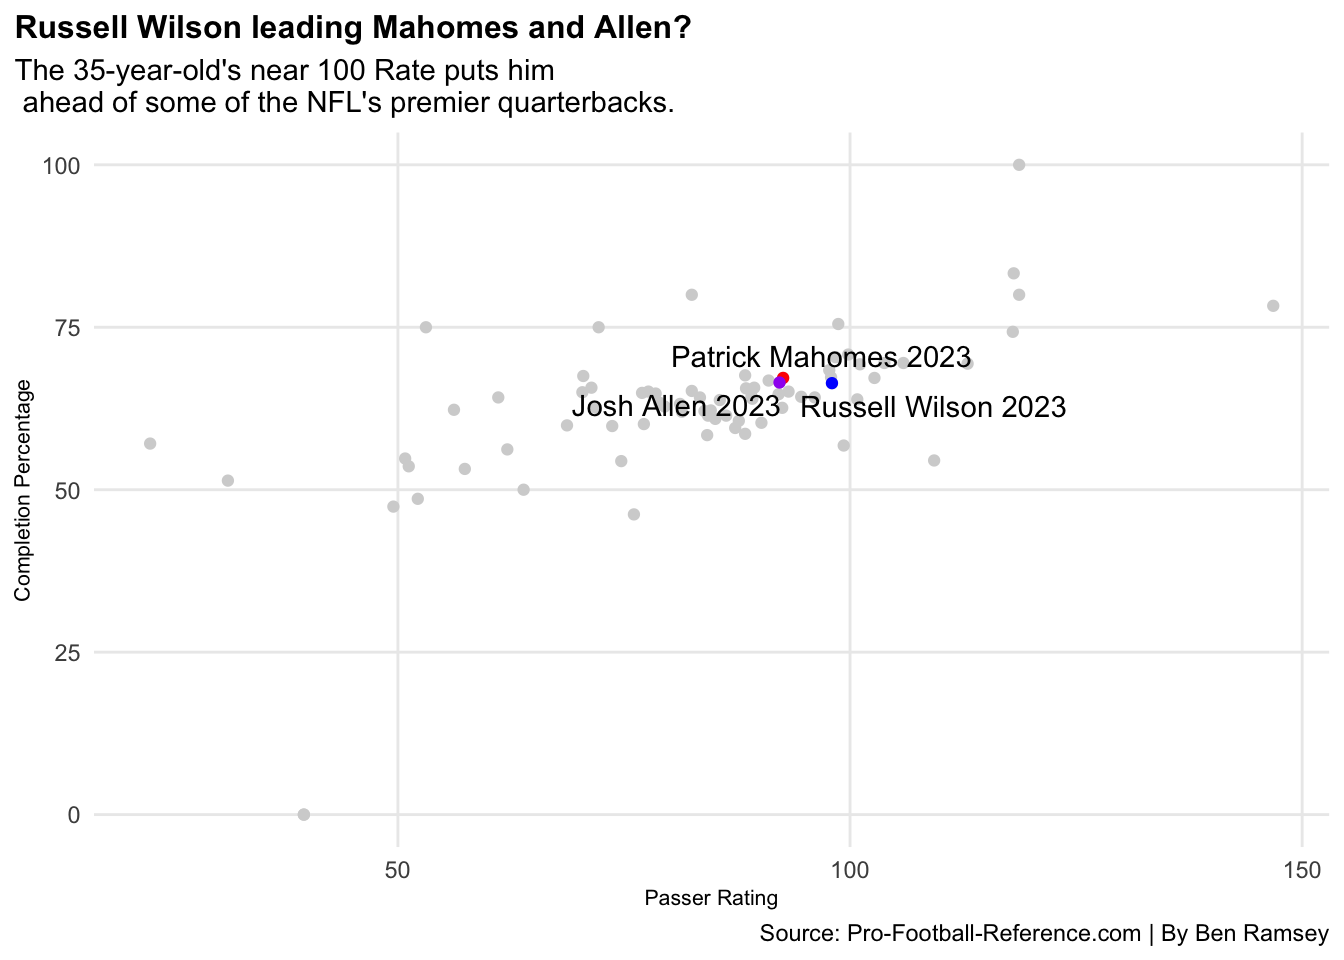
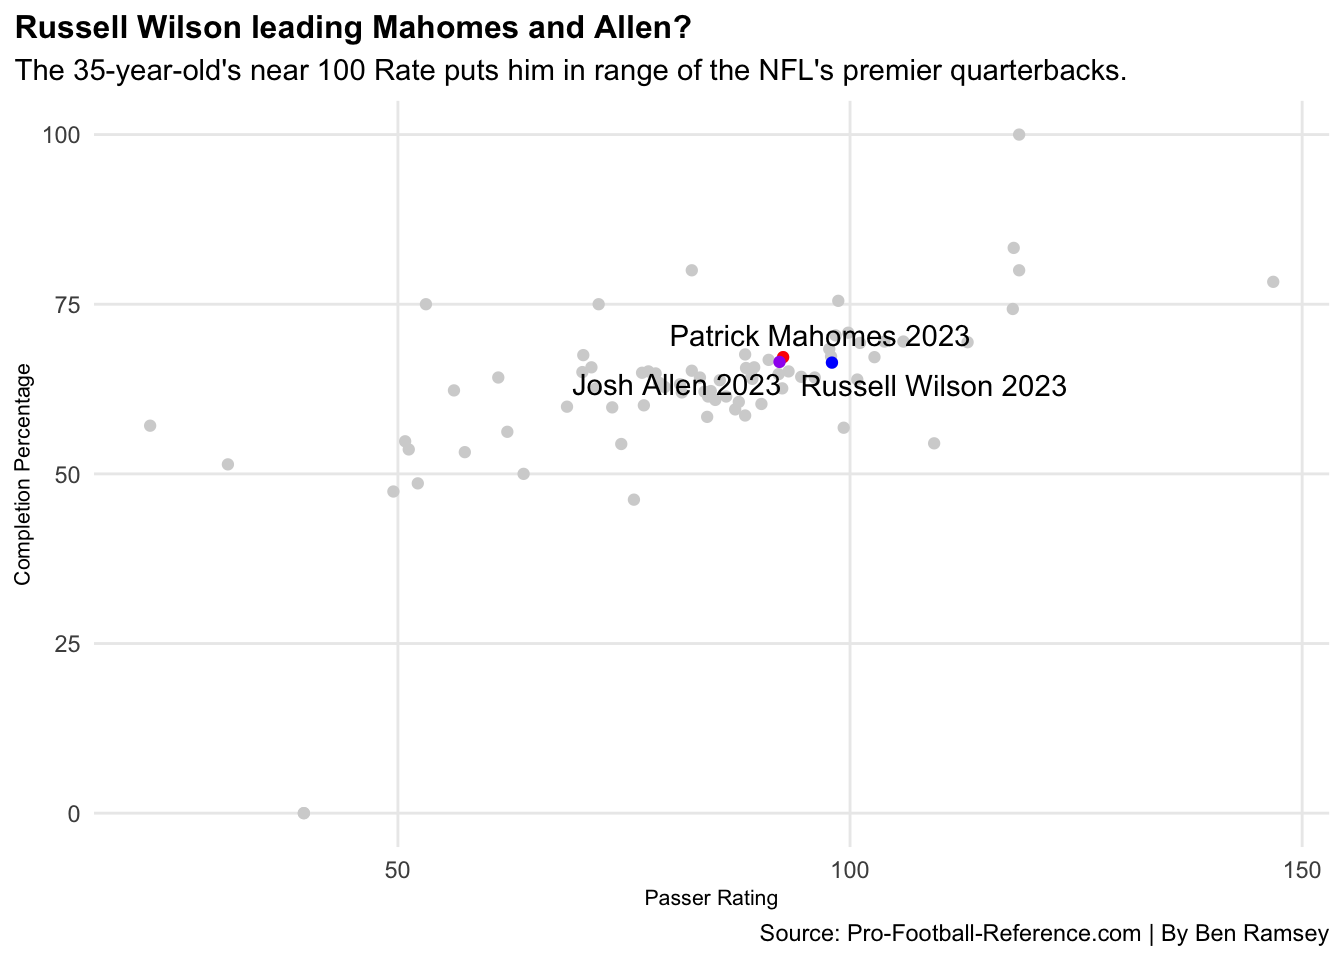
fixing some subtitles

diff --git a/posts/is-russell-wilson-the-best-broncos-quarterback-since-peyton-manning/index.html b/posts/is-russell-wilson-the-best-broncos-quarterback-since-peyton-manning/index.html
@@ -296,7 +296,7 @@ pre > code.sourceCode > span > a:first-child::before { text-decoration: underlin
 <span id="cb2-8"><a href="#cb2-8" aria-hidden="true" tabindex="-1"></a>    <span class="at">x =</span> <span class="st">"Passer Rating"</span>,</span>
 <span id="cb2-9"><a href="#cb2-9" aria-hidden="true" tabindex="-1"></a>    <span class="at">y =</span> <span class="st">"Completion Percentage"</span>,</span>
 <span id="cb2-10"><a href="#cb2-10" aria-hidden="true" tabindex="-1"></a>    <span class="at">title =</span> <span class="st">"Russell Wilson leading Mahomes and Allen?"</span>,</span>
-<span id="cb2-11"><a href="#cb2-11" aria-hidden="true" tabindex="-1"></a>    <span class="at">subtitle =</span> <span class="st">"The 35-year-old's near 100 Rate puts him </span><span class="sc">\n</span><span class="st"> ahead of some of the NFL's premier quarterbacks."</span>,</span>
+<span id="cb2-11"><a href="#cb2-11" aria-hidden="true" tabindex="-1"></a>    <span class="at">subtitle =</span> <span class="st">"The 35-year-old's near 100 Rate puts him in range of the NFL's premier quarterbacks."</span>,</span>
 <span id="cb2-12"><a href="#cb2-12" aria-hidden="true" tabindex="-1"></a>    <span class="at">caption =</span> <span class="st">"Source: Pro-Football-Reference.com | By Ben Ramsey"</span>) <span class="sc">+</span></span>
 <span id="cb2-13"><a href="#cb2-13" aria-hidden="true" tabindex="-1"></a>  <span class="fu">theme_minimal</span>() <span class="sc">+</span></span>
 <span id="cb2-14"><a href="#cb2-14" aria-hidden="true" tabindex="-1"></a>  <span class="fu">theme</span>(</span>

diff --git a/index.html b/index.html
@@ -205,7 +205,7 @@ window.Quarto = {
 
 <div class="quarto-listing quarto-listing-container-default" id="listing-listing">
 <div class="list quarto-listing-default">
-<div class="quarto-post image-right" data-index="0" data-categories="broncos,quarterback,data" data-listing-date-sort="1713070800000" data-listing-file-modified-sort="1712766145243" data-listing-date-modified-sort="NaN" data-listing-reading-time-sort="6" data-listing-word-count-sort="1165">
+<div class="quarto-post image-right" data-index="0" data-categories="broncos,quarterback,data" data-listing-date-sort="1713070800000" data-listing-file-modified-sort="1712766721496" data-listing-date-modified-sort="NaN" data-listing-reading-time-sort="6" data-listing-word-count-sort="1164">
 <div class="thumbnail">
 <p><a href="./posts/is-russell-wilson-the-best-broncos-quarterback-since-peyton-manning/index.html" class="no-external"></a></p><a href="./posts/is-russell-wilson-the-best-broncos-quarterback-since-peyton-manning/index.html" class="no-external">
 <p><img src="./posts/is-russell-wilson-the-best-broncos-quarterback-since-peyton-manning/image.png" class="thumbnail-image"></p>
